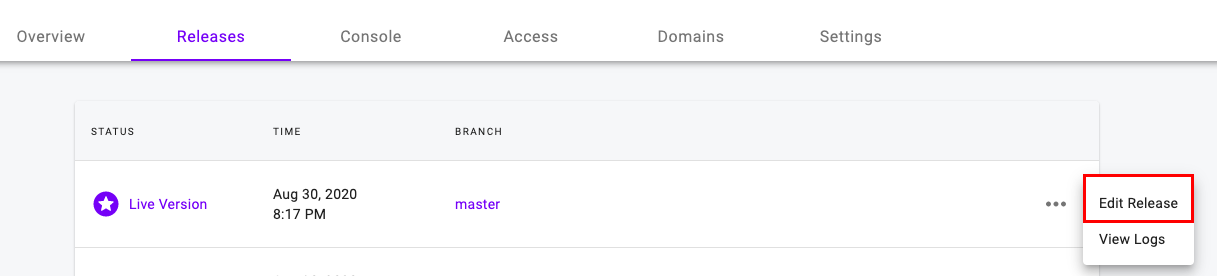
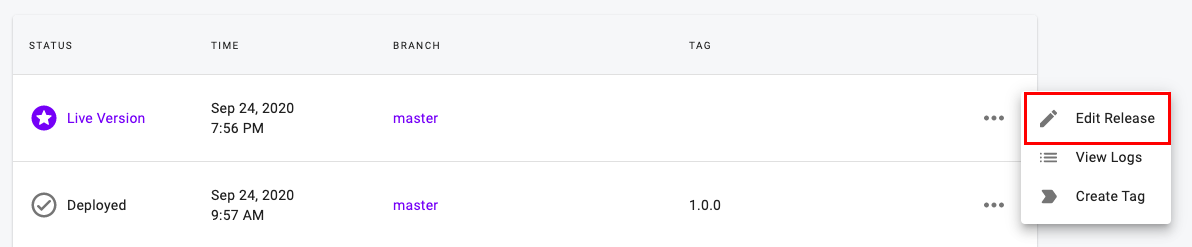
Docs Tag Releases [ch866]

diff --git a/docs/anatomy/anatomy-releases.md b/docs/anatomy/anatomy-releases.md
@@ -51,6 +51,22 @@ You can do the following to view historic deploy logs:
 
 ![View-Logs](/img/anatomy/view-logs.png)
 
+### Tag a Release
+
+You can tag a release when your code is frozen or once there are no further changes to push. Kintohub provides you with an option to tag your releases deployed in it.
+
+Follow the below steps to tag your Release:
+
+1. Click on the `...` in the row of the release you wish to edit
+2. Click on the **Create Tag** option
+
+![Create Tag](/img/anatomy/create-tag.png)
+
+3. Enter the tag version in the format displayed in the prompt
+4. Click on the **Tag Release** button
+
+![Confirm Tag](/img/anatomy/confirm-tag.png)
+
 ### Abort a Release
 
 If you know something is wrong and you want to cancel it immediately, you have an option to **Abort**.
